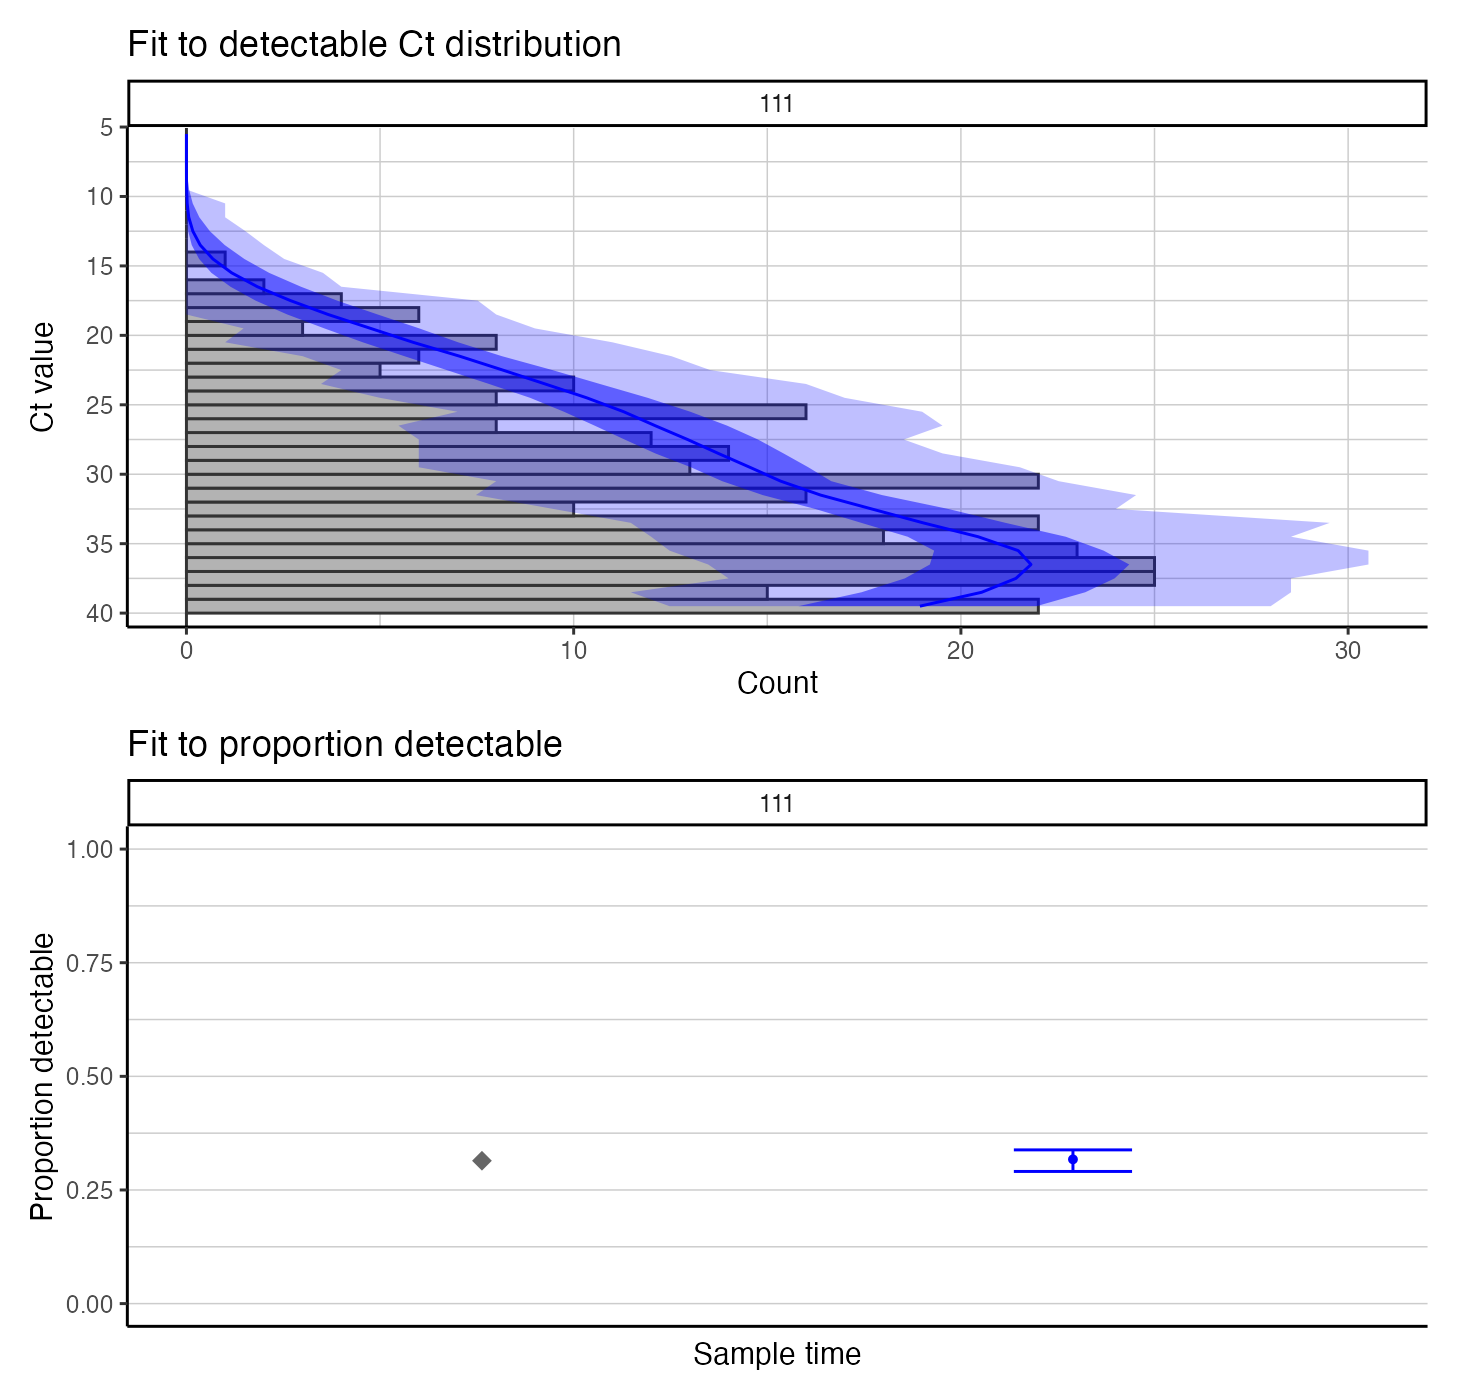
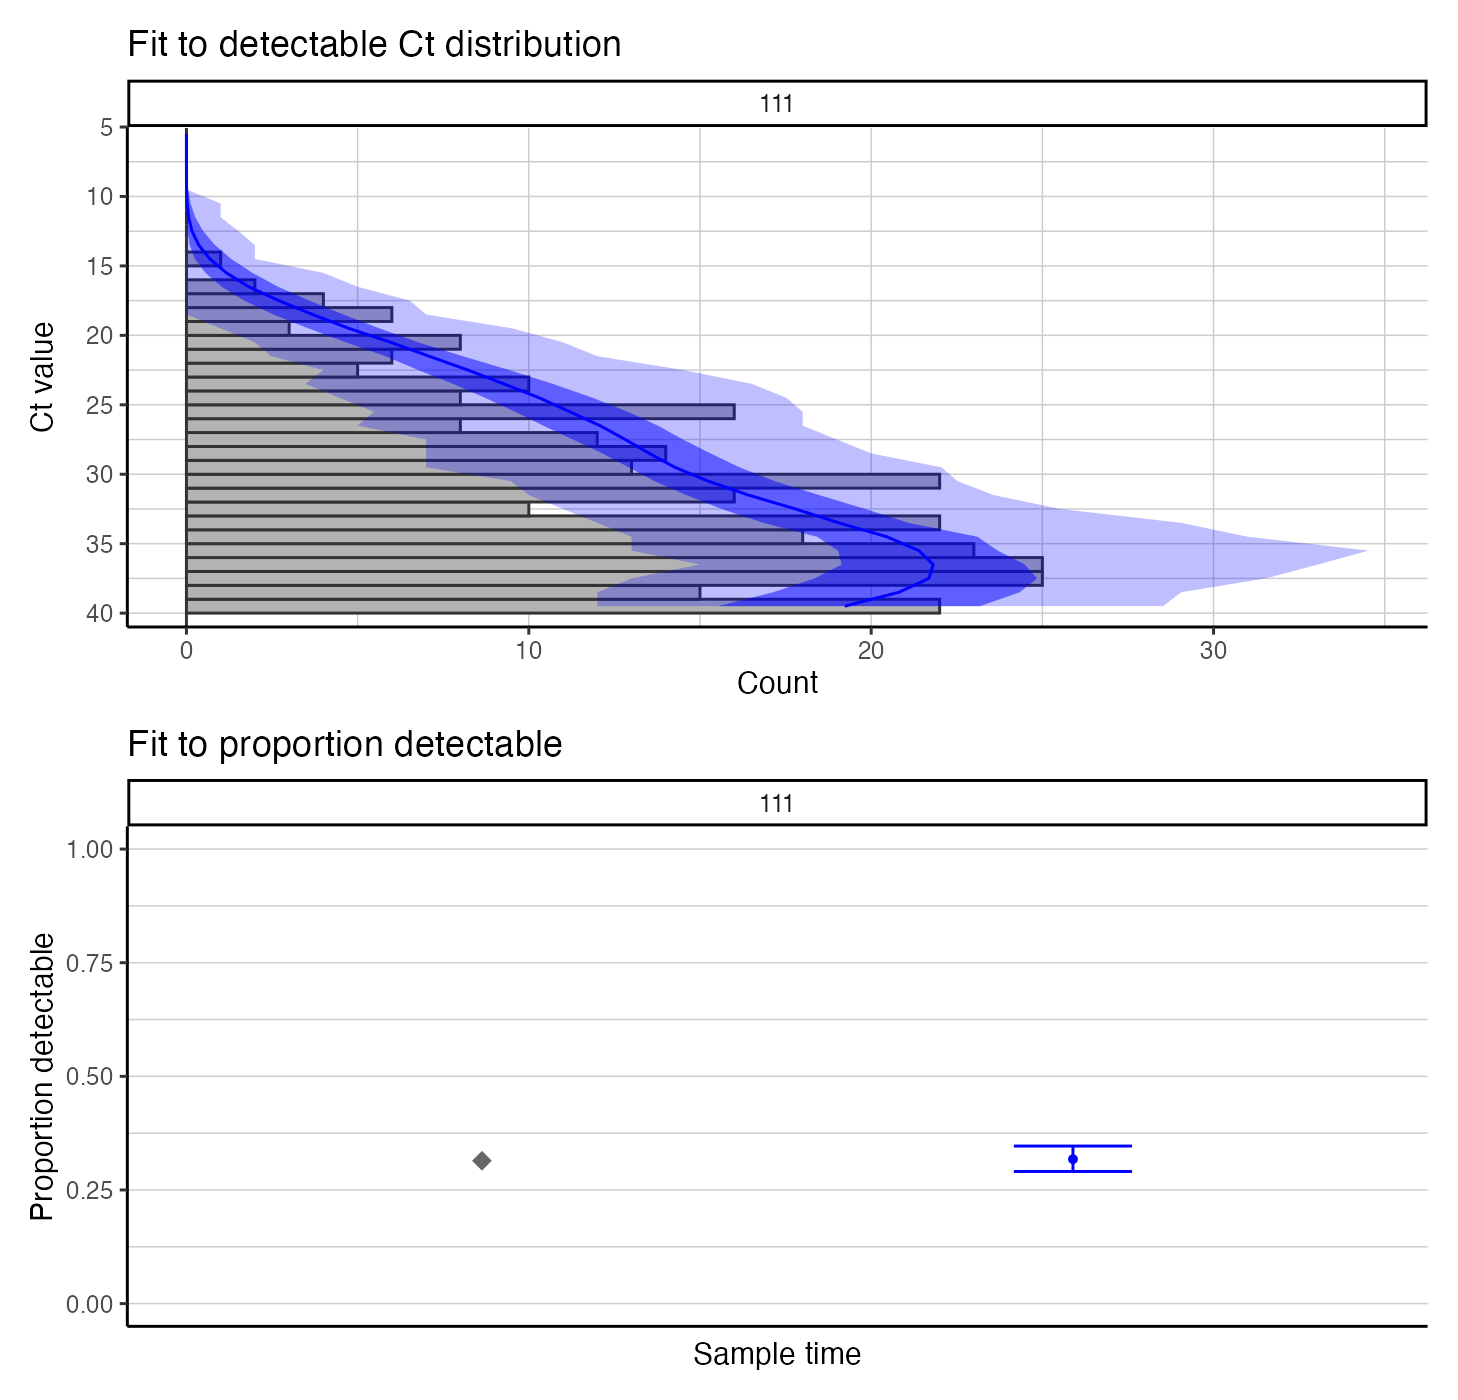
Trying pkgdown again

Changed region(s): [[0.1235, 0.1536, 0.9259, 0.4607], [0.7099, 0.7986, 0.7716, 0.8293]]

diff --git a/docs/articles/vignette.html b/docs/articles/vignette.html
@@ -188,12 +188,12 @@
 <span class="co">## # A tibble: 6 x 3</span>
 <span class="co">##     age i        ct</span>
 <span class="co">##   &lt;dbl&gt; &lt;chr&gt; &lt;dbl&gt;</span>
-<span class="co">## 1     1 1      40  </span>
-<span class="co">## 2     1 2      36.7</span>
-<span class="co">## 3     1 3      39.3</span>
-<span class="co">## 4     1 4      36.5</span>
-<span class="co">## 5     1 5      34.6</span>
-<span class="co">## 6     1 6      33.2</span>
+<span class="co">## 1     1 1      38.0</span>
+<span class="co">## 2     1 2      38.1</span>
+<span class="co">## 3     1 3      32.3</span>
+<span class="co">## 4     1 4      29.5</span>
+<span class="co">## 5     1 5      37.4</span>
+<span class="co">## 6     1 6      39.5</span>
 <span class="va">p_sim_cts_age</span> <span class="op">&lt;-</span> <span class="fu"><a href="https://ggplot2.tidyverse.org/reference/ggplot.html" class="external-link">ggplot</a></span><span class="op">(</span><span class="va">sim_cts</span> <span class="op"><a href="https://magrittr.tidyverse.org/reference/pipe.html" class="external-link">%&gt;%</a></span> <span class="fu"><a href="https://dplyr.tidyverse.org/reference/filter.html" class="external-link">filter</a></span><span class="op">(</span><span class="va">ct</span> <span class="op">&lt;</span> <span class="fl">40</span><span class="op">)</span><span class="op">)</span> <span class="op">+</span>
   <span class="fu"><a href="https://ggplot2.tidyverse.org/reference/geom_point.html" class="external-link">geom_point</a></span><span class="op">(</span><span class="fu"><a href="https://ggplot2.tidyverse.org/reference/aes.html" class="external-link">aes</a></span><span class="op">(</span>x<span class="op">=</span><span class="va">age</span>,y<span class="op">=</span><span class="va">ct</span><span class="op">)</span>,alpha<span class="op">=</span><span class="fl">0.25</span><span class="op">)</span> <span class="op">+</span>
   <span class="fu"><a href="https://ggplot2.tidyverse.org/reference/scale_continuous.html" class="external-link">scale_y_continuous</a></span><span class="op">(</span>trans<span class="op">=</span><span class="st">"reverse"</span>,limits<span class="op">=</span><span class="fu"><a href="https://rdrr.io/r/base/c.html" class="external-link">c</a></span><span class="op">(</span><span class="fl">40</span>,<span class="fl">10</span><span class="op">)</span><span class="op">)</span> <span class="op">+</span>
